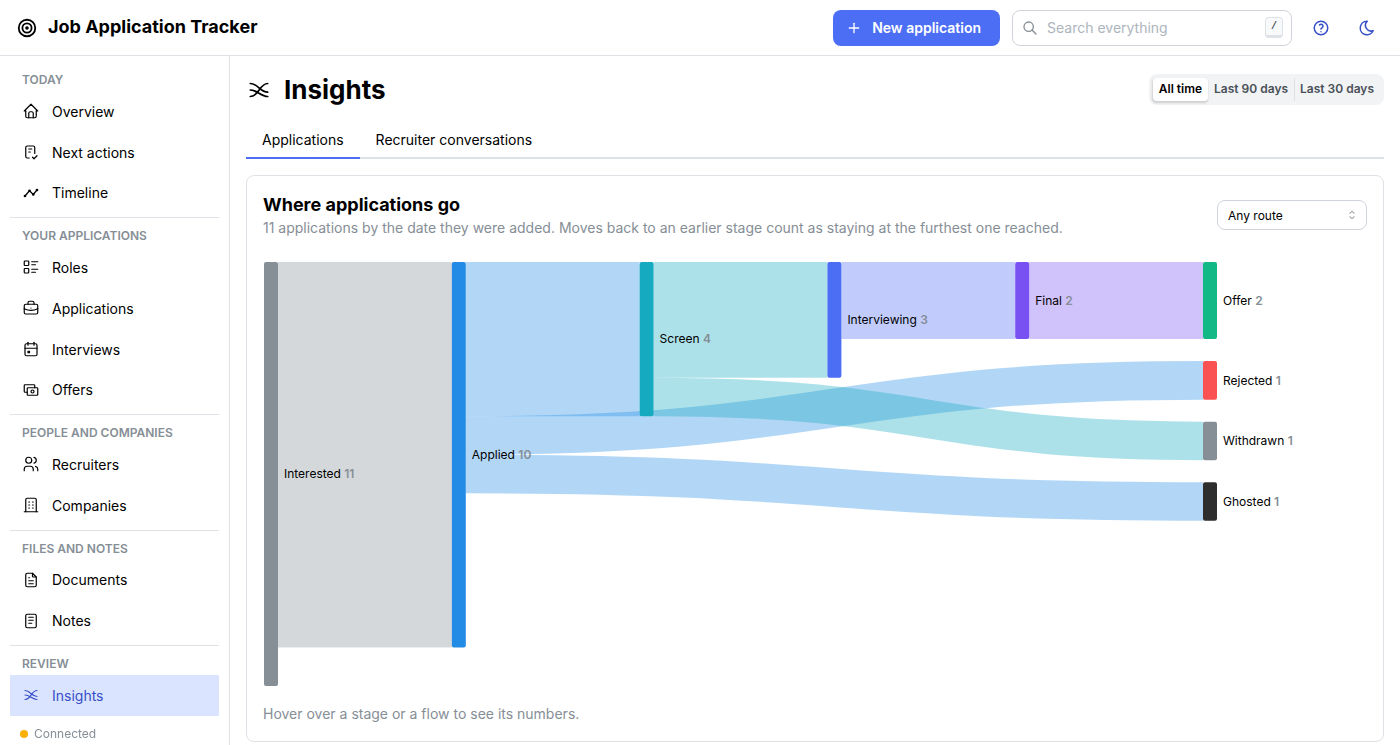
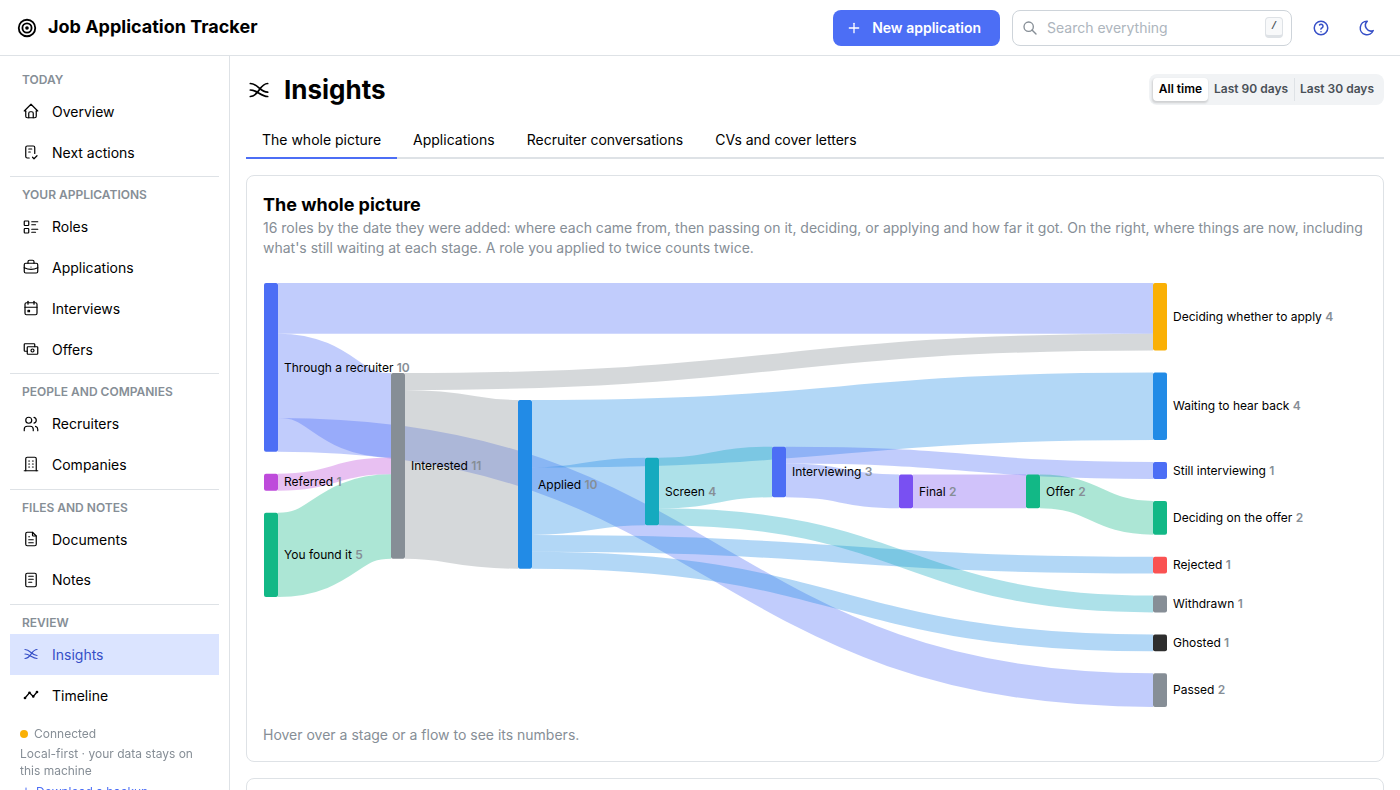
docs: the whole picture and waiting spurs in Insights
Guide, README (text, alt and a retaken insights.png on the new tab),
llms.txt, changelog and the website's Sankey tile.

diff --git a/README.md b/README.md
@@ -99,10 +99,13 @@ history.
 
 ![An application page: At a glance (what is coming up and key dates as "3 weeks ago"), then interview rounds, the CV sent, notes, links and files](docs/screenshots/application.png)
 
-**Insights: where do your applications go?** A Sankey diagram of every application's path
-through the stages, filtered by date range and route, with counts on hover.
+**Insights: the whole picture.** One Sankey diagram of every role, from where it came from
+(through a recruiter, a referral, or you found it) to passing on it, deciding, or applying and
+how far it got, ending with what's still waiting at each stage: deciding whether to apply,
+waiting to hear back, still interviewing, deciding on an offer. A second tab follows just
+applications, filtered by route. Date range and counts on hover for both.
 
-![Sankey diagram of a job search funnel: interested, applied, screen, interviewing, final, offer, with rejections and ghosting](docs/screenshots/insights.png)
+![Sankey diagram of a whole job search: roles through a recruiter, referred or found yourself, flowing through interested, applied, screen, interviewing, final and offer, to deciding whether to apply, waiting to hear back, still interviewing, deciding on the offer, rejected, withdrawn, ghosted and passed](docs/screenshots/insights.png)
 
 **Conversion, time in stage, direct vs recruiter, and a recruiter scorecard.** Which stages
 you get stuck at, whether agencies or direct applications do better for you, and which
@@ -173,7 +176,7 @@ to applications, roles or recruiters as plain files? It spots identical ones and
 | 📨 | **Waiting to hear back**: mark that you've replied, on an application or a person, and see who to chase; when they reply, **They've replied** puts it at the top of Next actions until you've read it; for people, **Chased**, **Ghosted** or **Not interested** in one click; a ghost marks anyone who ghosted you across the app (their page, applications, calls, Next actions, the Timeline, search and Insights), a *Ghosted* filter lists them, and **Not a ghost** takes it off any time; star your favourite recruiters so they stand out and come first; each person shows how long they *usually* take to reply, in working days, and says when you've been waiting longer than usual | ✅ Available |
 | 😴 | **One-click chasing**: set a follow-up reminder, snooze, or mark Ghosted straight from Next actions | ✅ Available |
 | 📊 | **Sankey diagram** of your funnel: applications → screens → interviews → offers, filtered by date range and route, with counts on hover | ✅ Available |
-| 📈 | **Insights**: conversion per stage, median time in stage, direct vs recruiter outcomes and weekly activity | ✅ Available |
+| 📈 | **Insights**: the whole picture (every role from where it came from to what's still waiting at each stage), conversion per stage, median time in stage, direct vs recruiter outcomes and weekly activity | ✅ Available |
 | 🗣 | **Recruiter conversations** in Insights: calls held, roles pitched, applied or passed (with your reasons), where pitched roles went, time to decide, per person and per agency | ✅ Available |
 | 🧪 | **Which CV works best**: an A/B test of your CV and cover-letter versions (heard back, screens or interviews, offers, how sure each number is, and whether a gap is likely real); CV files attached to applications, roles or recruiters become versions in one click | ✅ Available |
 | 🏅 | **Recruiter scorecard**: roles sent, interview rate, where they ended up, time to first update and last contact, per recruiter and per agency | ✅ Available |

diff --git a/docs/guide/using-the-app.md b/docs/guide/using-the-app.md
@@ -485,14 +485,31 @@ so you can also write and edit them in any editor. Tables, checklists and links 
 
 ## Insights
 
-How the search is going, for all time or the last 30 or 90 days. Three tabs: **Applications**,
-**Recruiter conversations** and **CVs and cover letters**; **Weekly activity** sits under all
-of them.
+How the search is going, for all time or the last 30 or 90 days. Four tabs: **The whole
+picture**, **Applications**, **Recruiter conversations** and **CVs and cover letters**;
+**Weekly activity** sits under all of them.
+
+**The whole picture** (the tab Insights opens on) is everything in one Sankey diagram: every
+role, from where it came from to where it is now.
+
+- On the left, where it came from: **Through a recruiter** (someone pitched the role, or the
+  application went through a recruiter or agency), **Referred** (a referral) or **You found
+  it** (anything else).
+- Then roles you passed on go to **Passed**, roles with no application yet to **Deciding whether
+  to apply**, and applications through their stages from *Interested*.
+- On the right, where things are now: outcomes (Rejected, Ghosted, Accepted…) and, from each
+  stage, a spur to what's still waiting there.
+
+It counts roles and applications added in the date range; a role you applied to twice counts
+twice.
 
 **Applications**
 
 - **Where applications go**: a Sankey diagram of applications flowing through the stages,
-  starting at *Interested*; filter by route, hover for counts.
+  starting at *Interested*; filter by route, hover for counts. Each stage has a spur to where
+  the applications still there are waiting: *Deciding whether to apply* (Interested), *Waiting
+  to hear back* (Applied), *Still screening*, *Still interviewing*, *In final rounds*, *Deciding
+  on the offer*, or *Still at …* for stages of your own. They're listed above the outcomes.
 - **Stage by stage**: how many reached each stage, how many moved on, and the median time
   spent there.
 - **Direct vs recruiter**: the share of each route's applications that got to each stage.

diff --git a/CHANGELOG.md b/CHANGELOG.md
@@ -123,6 +123,10 @@ brackets are pull requests.
   instead of squashing its name (#79).
 - **Favourite people**: star the recruiters you rate; a gold star before their name across the
   app, a *Favourites* filter on the Recruiters page, and favourites listed first (#80).
+- **The whole picture** in Insights: one Sankey diagram of every role, from where it came from
+  (through a recruiter, referred, or you found it) to passed, deciding whether to apply, or its
+  stages; both Sankeys end each stage with a spur to what's still waiting there (*Waiting to hear
+  back*, *Still interviewing*, *Deciding on the offer*…) (#84).
 - **Every application starts at Interested**: one added at *Applied* (or later) gets an
   *Interested* step a second before, so Insights shows every application flowing from
   *Interested*; existing applications are filled in by migration 0013 (#83).
